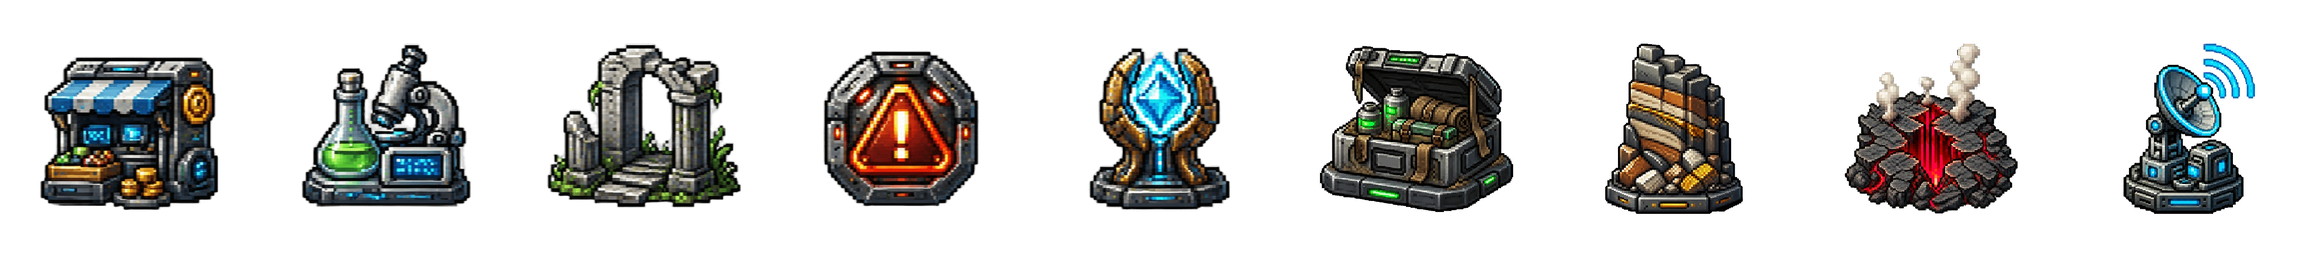
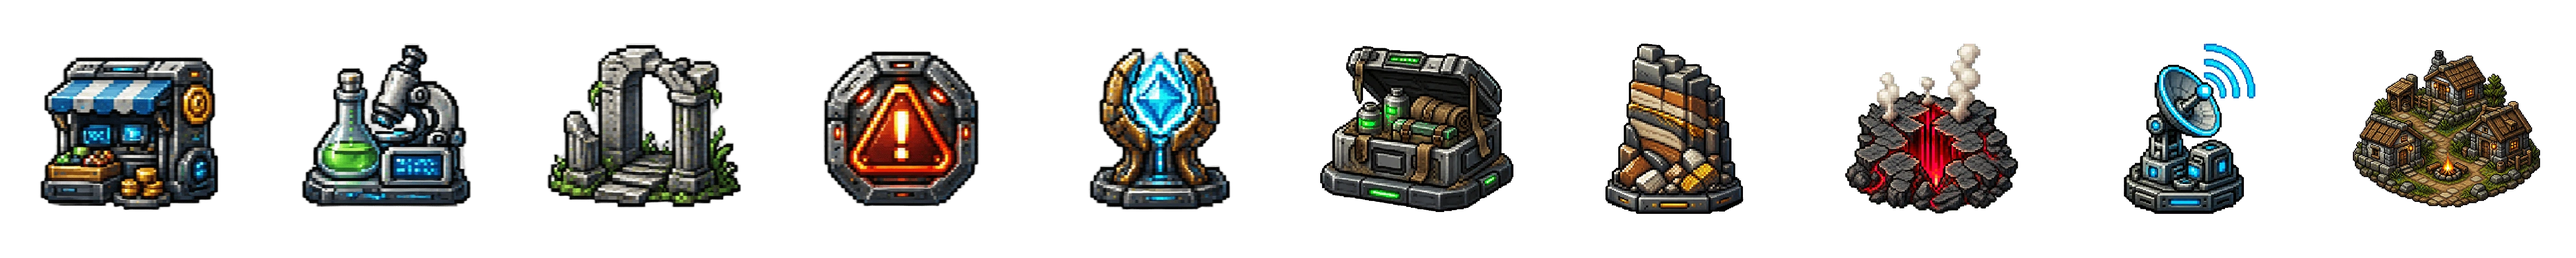
feat: add settlement expedition sprite

diff --git a/src/game/components/ExpeditionMapCanvas.tsx b/src/game/components/ExpeditionMapCanvas.tsx
@@ -78,7 +78,7 @@ const TILE_COLORS: Record<
 };
 
 const EXPEDITION_LOCATION_SPRITE = "/assets/expedition_locations.webp";
-const EXPEDITION_LOCATION_SPRITE_COUNT = 9;
+const EXPEDITION_LOCATION_SPRITE_COUNT = 10;
 
 /**
  * Карта намеренно частичная: тип клетки может появиться раньше своей
@@ -95,6 +95,7 @@ const TILE_SPRITE_INDEX: Partial<Record<ExploreTileType, number>> = {
   core_sample: 6,
   hazard: 7,
   signal: 8,
+  settlement: 9,
 };
 
 // Drawing functions for each tile type
